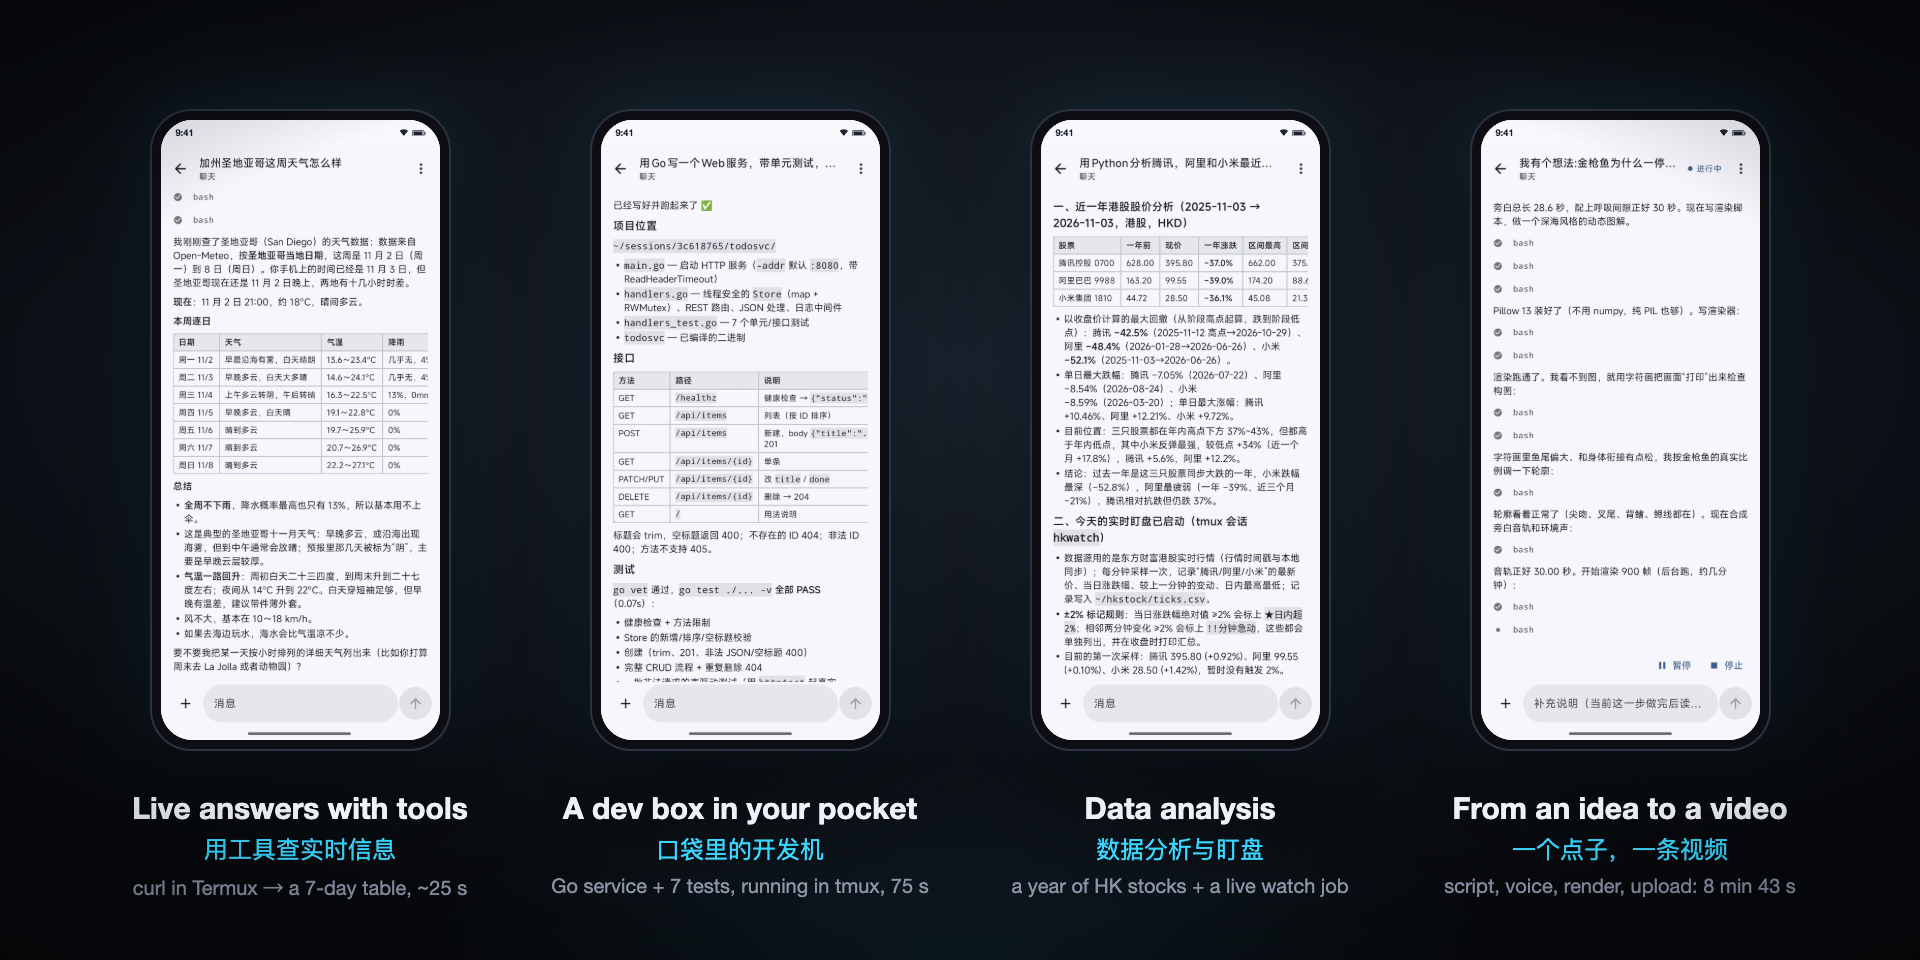
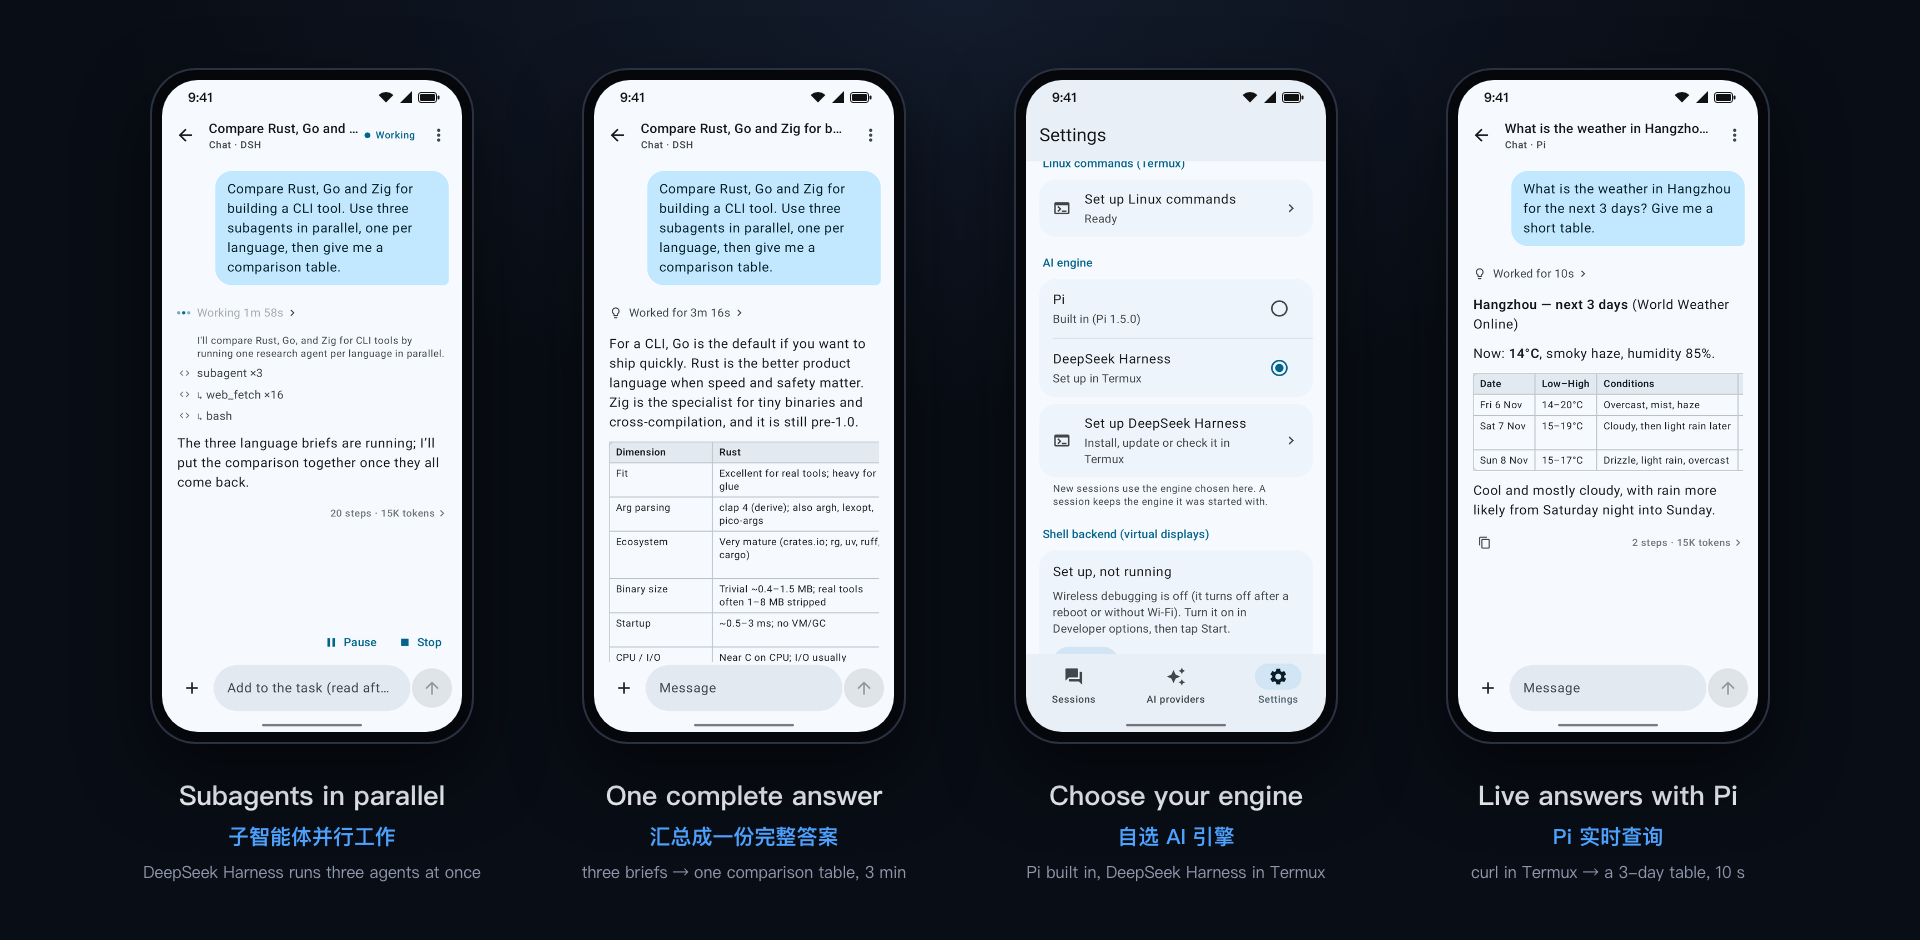
docs(readme): a new showcase with DeepSeek Harness's subagents
The showcase now has four new screenshots from the phone: a DeepSeek Harness
session with three subagents researching in parallel, its answer (one
comparison table), Settings with the engine choice, and a Pi session answering
the weather through Termux. It is drawn by docs/images/showcase-src/. Both
READMEs drop the "early development" note.

diff --git a/docs/images/showcase-src/showcase.html b/docs/images/showcase-src/showcase.html
@@ -1,0 +1,49 @@
+<!DOCTYPE html>
+<!-- The README showcase: four real screenshots in phone frames, with English and Chinese captions. See README.md here. -->
+<html><head><meta charset="utf-8">
+<style>
+  html, body { margin: 0; }
+  body { width: 1920px; height: 940px; overflow: hidden; background: radial-gradient(1200px 600px at 50% 0%, #131c2c, #090d15 70%);
+    font-family: -apple-system, "SF Pro Display", "PingFang SC", "Helvetica Neue", sans-serif; -webkit-font-smoothing: antialiased; }
+  .row { display: flex; justify-content: center; gap: 92px; padding-top: 70px; }
+  .item { width: 340px; display: flex; flex-direction: column; align-items: center; }
+  .phone { width: 300px; height: 652px; border-radius: 44px; background: #05070b; padding: 10px; box-sizing: content-box;
+    box-shadow: 0 0 0 2px #2a3242, 0 30px 70px rgba(0,0,0,.55); position: relative; }
+  .screen { width: 300px; height: 652px; border-radius: 36px; overflow: hidden; position: relative; }
+  .screen img { width: 100%; height: 100%; display: block; }
+  /* A clean status bar over the screenshot's (blanked) one: 125 of 2400 px. */
+  .bar { position: absolute; left: 0; right: 0; top: 0; height: 34px; display: flex; align-items: center; justify-content: space-between;
+    padding: 0 22px 0 26px; font-size: 13px; font-weight: 600; color: #111; }
+  .bar svg { display: block; }
+  .icons { display: flex; gap: 5px; align-items: center; }
+  h2 { margin: 34px 0 0; font-size: 27px; font-weight: 700; color: #f2f5fa; letter-spacing: -.2px; }
+  .zh { margin-top: 8px; font-size: 21px; font-weight: 600; color: #4fa3ff; }
+  .sub { margin-top: 10px; font-size: 16px; color: #8d98ab; text-align: center; }
+</style></head>
+<body>
+<template id="bar">
+  <div class="bar"><span>9:41</span><span class="icons">
+    <svg width="16" height="12" viewBox="0 0 16 12"><path d="M8 11.5 0.6 4.1a10.5 10.5 0 0 1 14.8 0Z" fill="#111"/></svg>
+    <svg width="14" height="12" viewBox="0 0 14 12"><path d="M13 0v12H1Z" fill="#111"/></svg>
+    <svg width="22" height="11" viewBox="0 0 22 11"><rect x=".5" y=".5" width="18" height="10" rx="2.5" fill="none" stroke="#111"/><rect x="2" y="2" width="15" height="7" rx="1.2" fill="#111"/><rect x="19.5" y="3.5" width="2" height="4" rx="1" fill="#111"/></svg>
+  </span></div>
+</template>
+<div class="row">
+  <div class="item"><div class="phone"><div class="screen"><img src="1-subagents.png"></div></div>
+    <h2>Subagents in parallel</h2><div class="zh">子智能体并行工作</div>
+    <div class="sub">DeepSeek Harness runs three agents at once</div></div>
+  <div class="item"><div class="phone"><div class="screen"><img src="2-answer.png"></div></div>
+    <h2>One complete answer</h2><div class="zh">汇总成一份完整答案</div>
+    <div class="sub">three briefs → one comparison table, 3 min</div></div>
+  <div class="item"><div class="phone"><div class="screen"><img src="3-engine.png"></div></div>
+    <h2>Choose your engine</h2><div class="zh">自选 AI 引擎</div>
+    <div class="sub">Pi built in, DeepSeek Harness in Termux</div></div>
+  <div class="item"><div class="phone"><div class="screen"><img src="4-pi.png"></div></div>
+    <h2>Live answers with Pi</h2><div class="zh">Pi 实时查询</div>
+    <div class="sub">curl in Termux → a 3-day table, 10 s</div></div>
+</div>
+<script>
+  const bar = document.getElementById("bar");
+  for (const s of document.querySelectorAll(".screen")) s.appendChild(bar.content.cloneNode(true));
+</script>
+</body></html>

diff --git a/README.zh-CN.md b/README.zh-CN.md
@@ -22,8 +22,6 @@
 
 [下载](https://github.com/zjw1918/WeiAssist/releases/latest) · [Termux 设置](docs/TERMUX.md) · [Telegram](docs/TELEGRAM.md) · [架构](docs/ARCHITECTURE.md) · [进度](docs/PROGRESS.md) · [路线图](docs/ROADMAP.md)（文档为英文）
 
-> **早期开发中。** 已在真机（Android 12 到 16）上可用，但难免有不完善之处。
-
 ## 安装
 
 从 [Releases](https://github.com/zjw1918/WeiAssist/releases/latest) 下载 APK 并打开。Android 询问时，允许浏览器或文件管理器安装应用。
@@ -50,7 +48,7 @@
 
 ## 它能做什么
 
-![小维助手里的四个对话：用 curl 查实时天气、在 tmux 里跑着测试的 Go Web 服务、一年的港股数据加实时盯盘、从一个想法做出一条配音视频](docs/images/showcase.png)
+![小维助手的四个界面：DeepSeek Harness 会话里三个子智能体并行调研；它的回答，把三份调研汇总成一张对比表；设置里的 AI 引擎选择（Pi 或 DeepSeek Harness）；以及 Pi 会话用 Termux 里的 curl 查天气](docs/images/showcase.png)
 
 - **多家 AI 服务：** OpenAI、Anthropic、Google、DeepSeek、OpenRouter、xAI、Moonshot、Mistral、OpenCode，以及任何兼容 OpenAI 的服务（Ollama、vLLM、LM Studio 等）。
 - **照片和文件：** 发给它图片、PDF 和文档；它也会把做好的文件发回给你。

diff --git a/README.md b/README.md
@@ -28,8 +28,6 @@ servers of ours in between: the app talks to your provider directly, and your ke
 [Telegram](docs/TELEGRAM.md) · [Architecture](docs/ARCHITECTURE.md) · [Progress](docs/PROGRESS.md) ·
 [Roadmap](docs/ROADMAP.md)
 
-> **Early development.** It works on real phones (Android 12 to 16), but expect rough edges.
-
 ## Install
 
 Download the APK from [Releases](https://github.com/zjw1918/WeiAssist/releases/latest) and open it. Allow
@@ -59,7 +57,7 @@ conversation keeps the engine it started with.
 
 ## What it can do
 
-![Four conversations in WeiAssist: live weather with curl, a Go web service with tests running in tmux, a year of Hong Kong stock data with a live watch job, and a narrated video made from an idea](docs/images/showcase.png)
+![Four WeiAssist screens: a DeepSeek Harness session with three subagents researching in parallel; its answer, one comparison table from their briefs; Settings with the AI engine choice, Pi or DeepSeek Harness; and a Pi session answering the weather with curl in Termux](docs/images/showcase.png)
 
 - **Many providers:** OpenAI, Anthropic, Google, DeepSeek, OpenRouter, xAI, Moonshot, Mistral, OpenCode, and any
   OpenAI-compatible server (Ollama, vLLM, LM Studio…).

diff --git a/docs/images/showcase-src/README.md b/docs/images/showcase-src/README.md
@@ -1,0 +1,14 @@
+# README showcase
+
+`showcase.html` puts four real screenshots (a realme RMX2121, 2026-11-05; status bar blanked, 540×1200) in phone
+frames with English and Chinese captions. Render it with headless Chrome:
+
+```bash
+"/Applications/Google Chrome.app/Contents/MacOS/Google Chrome" --headless=new --hide-scrollbars \
+  --window-size=1920,940 --screenshot=../showcase.png "file://$PWD/showcase.html"
+```
+
+1. A DeepSeek Harness session with three subagents at work (their steps marked ↳).
+2. The same session's answer: one comparison table from the three briefs.
+3. Settings → AI engine: Pi or DeepSeek Harness.
+4. A Pi session: the weather via curl in Termux, as a table.
